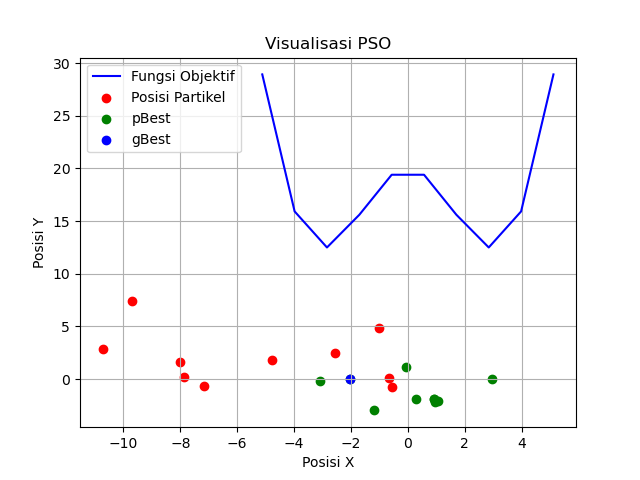
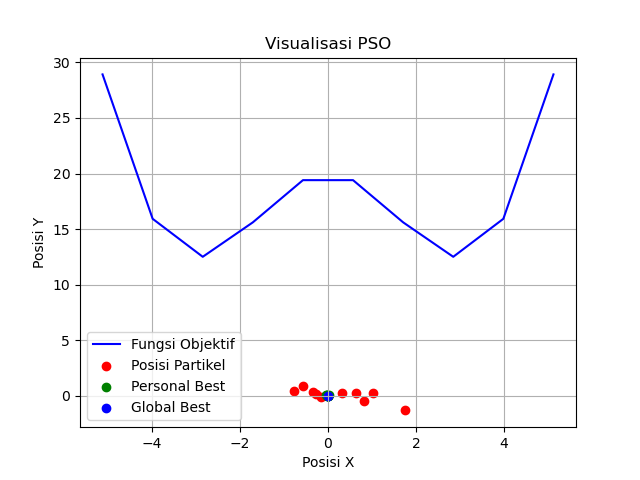
fix PSO

diff --git a/PSO/fx-PSO-2D.py b/PSO/fx-PSO-2D.py
@@ -126,9 +126,7 @@ class fx_PSO_2D:
             self.findPbest()
             self.updateV()
 
-            print(f"Iteration {j + 1}")
             self.print_table(j + 1)
-            self.updateXY()
             print()
 
         print(f"Minimum value of f(x) = {fitness_function(self.gBest_x, self.gBest_y)}")
@@ -138,22 +136,37 @@ class fx_PSO_2D:
         particle_xy = np.column_stack((self.particle_x, self.particle_y))
         pBest_xy = np.column_stack((self.pBest_x, self.pBest_y))
         velocity_xy = np.column_stack((self.velocity_x, self.velocity_y))
+
+        rounded_particle = np.round(particle_xy, 3)
+        rounded_determine_fx = np.round(self.determineFunction(), 3)
+        rounded_fx_pBest = np.round(self.evaluatePbestFitness(), 3)
+        rounded_fx_gBest = (
+            np.round(fitness_function(self.gBest_x, self.gBest_y), 3)
+            if self.gBest_x is not None and self.gBest_y is not None
+            else None
+        )
+        rounded_gbest = (
+            np.round(np.array([self.gBest_x, self.gBest_y]), 3)
+            if self.gBest_x is not None and self.gBest_y is not None
+            else None
+        )
+        rounded_pBest = np.round(pBest_xy, 3)
+        rounded_velocity = np.round(velocity_xy, 3)
+        self.updateXY()
         updateXY = np.column_stack((self.particle_x, self.particle_y))
+        rounded_updateXY = np.round(updateXY, 3)
         data = [
             [f"Iteration {n}"],
-            ["Particles (x,y)", tuple(map(tuple, particle_xy))],
-            ["Determine fx", self.determineFunction()],
-            ["fx(pBest)", self.evaluatePbestFitness()],
-            [
-                "fx(gBest)",
-                fitness_function(self.gBest_x, self.gBest_y)
-                if self.gBest_x and self.gBest_y is not None
-                else None,
-            ],
-            ["Global Best (x,y)", (self.gBest_x, self.gBest_y)],
-            ["Personal Best (x,y)", tuple(map(tuple, pBest_xy))],
-            ["Velocity (x,y)", tuple(map(tuple, velocity_xy))],
-            ["Update (x,y)", tuple(map(tuple, updateXY))],
+            ["Particles (x,y)", tuple(map(tuple, rounded_particle))],
+            ["Determine fx", tuple(zip(rounded_determine_fx))],
+            ["fx(pBest)", tuple(zip(rounded_fx_pBest))],
+            ["fx(gBest)", rounded_fx_gBest],
+            ["Global Best (x,y)", tuple(zip(rounded_gbest))]
+            if rounded_gbest is not None
+            else ["Global Best (x,y)", None],
+            ["Personal Best (x,y)", tuple(map(tuple, rounded_pBest))],
+            ["Velocity (x,y)", tuple(map(tuple, rounded_velocity))],
+            ["Update (x,y)", tuple(map(tuple, rounded_updateXY))],
         ]
 
         headers = ["Swarm Optimization", "Value"]
@@ -208,7 +221,7 @@ if __name__ == "__main__":
     c = np.array([1.0, 0.5])  # Acceleration coefficient
     r = np.array([np.random.rand(), np.random.rand()])  # Random number
     w = 1.0  # Inertia weight
-    iterate = 10  # Iterate
+    iterate = 450  # Iterate
     pso = fx_PSO_2D(
         particle_x, particle_y, velocity_x, velocity_y, c, r, w
     )  # Create object

diff --git a/PSO/fx-PSO.py b/PSO/fx-PSO.py
@@ -88,19 +88,22 @@ class fx_PSO:
 
     # Method to create table
     def print_table(self, n):
-        rounded_particle = np.round(self.particle, 4)
-        rounded_determine_fx = np.round(self.determineFunction(), 4)
-        rounded_fx_pBest = np.round(self.evaluatePbestFitness(), 4)
+        # Rounded value
+        rounded_particle = np.round(self.particle, 3)
+        rounded_determine_fx = np.round(self.determineFunction(), 3)
+        rounded_fx_pBest = np.round(self.evaluatePbestFitness(), 3)
         if self.gBest is not None:
-            rounded_fx_gBest = np.round(fitness_function(self.gBest), 4)
+            rounded_fx_gBest = np.round(fitness_function(self.gBest), 3)
             fx_gBest_str = str(rounded_fx_gBest)
         else:
             fx_gBest_str = None
-        rounded_gbest = np.round(self.gBest, 4) if self.gBest is not None else None
-        rounded_pBest = np.round(self.pBest, 4)
-        rounded_velocity = np.round(self.velocity, 4)
+        rounded_gbest = np.round(self.gBest, 3) if self.gBest is not None else None
+        rounded_pBest = np.round(self.pBest, 3)
+        rounded_velocity = np.round(self.velocity, 3)
         self.updateX()
-        rounded_updateX = np.round(self.particle, 4)
+        rounded_updateX = np.round(self.particle, 3)
+
+        # Data for table
         data = [
             [f"Iteration {n}"],
             ["Particle (x)", ", ".join(map(str, rounded_particle))],
@@ -117,8 +120,6 @@ class fx_PSO:
         ]
         headers = ["Variabel", "Value"]
         print(tabulate(data, headers, tablefmt="grid", colalign=("left", "right")))
-
-        # Add this method to the fx_PSO class
 
     def plot(self):
         # Generate data for visualization
@@ -169,7 +170,7 @@ if __name__ == "__main__":
         [np.random.rand(), np.random.rand()]
     )  # Random number (Between 0 and 1)
     w = 1.0  # Inertia weight
-    iterate = 10  # Iterate
+    iterate = 150  # Iterate
     pso = fx_PSO(particle, velocity, c, r, w)  # Create object
     pso.iterate(iterate)  # Iterate PSO
     pso.plot()  # Display visualization of PSO

diff --git a/PSO/PSO_2D.py b/PSO/PSO_2D.py
@@ -205,7 +205,7 @@ class fx_PSO_2D:
 # Main program
 if __name__ == "__main__":
     # xy_range = np.array([-5.12, 5.12])  # Range of particle (xMin, xMax)
-    dimension = 3  # Dimension of particle
+    dimension = 10  # Dimension of particle
     particle_x = np.array([1.0, 1.0, 2.0])  # Generate particle x random particle
     particle_y = np.array([1.0, -1.0, -1.0])  # Generate particle y random particle
     velocity_x = np.zeros(dimension)  # Initialize velocity x
